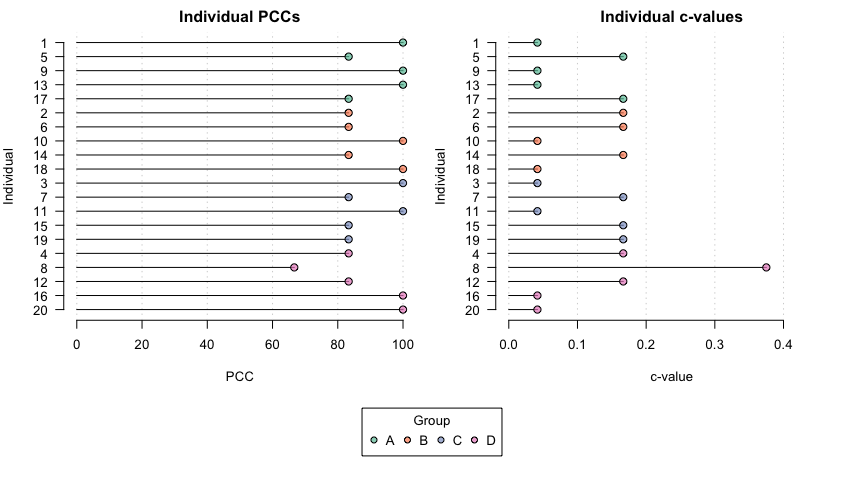
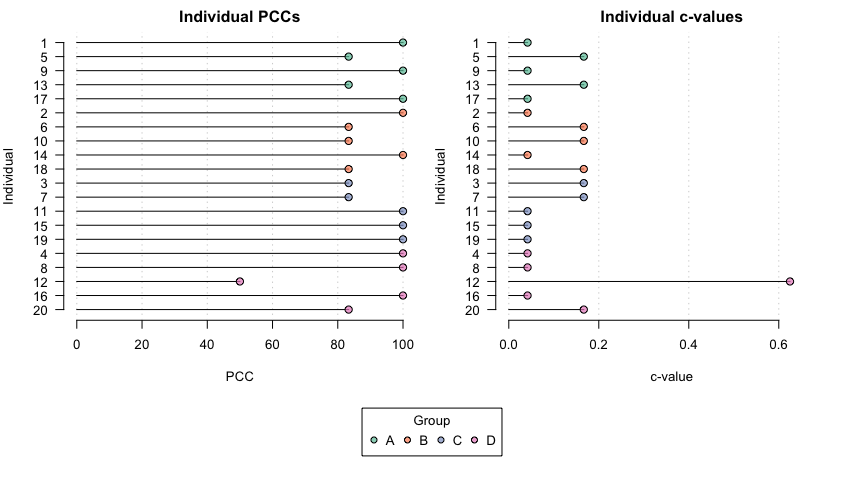
Updated readme

diff --git a/README.md b/README.md
@@ -1,11 +1,6 @@
 
 <!-- README.md is generated from README.Rmd. Please edit that file -->
 
-``` r
-palette("Set 2")
-palette(adjustcolor(palette(), alpha.f = 0.7))
-```
-
 # opa
 
 <!-- badges: start -->
@@ -99,6 +94,10 @@ h <- c(1, 2, 4, 3)
 The hypothesis can be visualized with the `plot_hypothesis()` function:
 
 ``` r
+# set plot colors
+palette("Set 2")
+palette(adjustcolor(palette(), alpha.f = 0.7))
+
 plot_hypothesis(h)
 ```
 
@@ -115,26 +114,26 @@ dat <- data.frame(t1 = rnorm(20, mean = 12, sd = 2),
                   
 round(dat, 2)
 #>       t1    t2    t3    t4
-#> 1  13.29 16.12 18.78 16.85
-#> 2  13.38 15.88 19.87 15.40
-#> 3  15.84 16.34 21.12 18.36
-#> 4  12.72 13.58 17.09 18.46
-#> 5  13.76 16.55 17.45 15.54
-#> 6  10.67  9.30 22.78 13.61
-#> 7  12.55  9.70 18.14 15.25
-#> 8  14.15 13.66 17.68 19.41
-#> 9  11.40 14.67 25.38 15.23
-#> 10 11.73 15.33 19.01 17.71
-#> 11 12.81 13.42 21.95 18.32
-#> 12  9.95 15.25 17.19 21.52
-#> 13 12.92 12.96 20.97 17.56
-#> 14  8.35 15.86 20.53 15.03
-#> 15 12.04 17.98 21.50 16.18
-#> 16 13.05 14.01 19.71 14.14
-#> 17  9.98 16.86 22.30 16.78
-#> 18  8.12 16.81 24.03 18.07
-#> 19 11.89 14.96 21.71 14.58
-#> 20 12.53 17.08 20.96 19.66
+#> 1  10.29 13.20 22.67 18.39
+#> 2   9.34 15.45 18.24 16.66
+#> 3   9.42 14.39 19.15 13.99
+#> 4   8.09 16.59 20.76 17.77
+#> 5  12.41 16.11 17.54 15.14
+#> 6  12.34 17.06 19.71 16.77
+#> 7   8.88 13.13 15.28 17.35
+#> 8  11.81 13.11 20.57 18.10
+#> 9  13.49 14.18 21.14 17.94
+#> 10 12.84 15.74 23.38 15.34
+#> 11 10.53 12.27 21.71 17.19
+#> 12 13.63 16.73 16.26 16.44
+#> 13 15.02 17.08 17.79 16.67
+#> 14 14.09 15.93 19.41 18.19
+#> 15 12.27 17.07 20.46 18.83
+#> 16 13.20 15.73 22.71 17.63
+#> 17 12.97 13.47 18.77 18.20
+#> 18 14.77 14.26 25.36 16.35
+#> 19  9.32 13.44 17.77 15.30
+#> 20 11.34 16.35 20.71 15.93
 ```
 
 An ordinal pattern analysis model to consider how the hypothesis `h`
@@ -151,31 +150,31 @@ summary(opamod)
 #> Ordinal Pattern Analysis of 4 observations for 20 individuals in 1 group 
 #> 
 #> Between subjects results:
-#>        PCC cval
-#> pooled  90 0.12
+#>          PCC cval
+#> pooled 90.83 0.12
 #> 
 #> Within subjects results:
 #>       PCC cval
 #> 1  100.00 0.04
-#> 2   83.33 0.17
-#> 3  100.00 0.04
-#> 4   83.33 0.17
+#> 2  100.00 0.04
+#> 3   83.33 0.17
+#> 4  100.00 0.04
 #> 5   83.33 0.17
 #> 6   83.33 0.17
 #> 7   83.33 0.17
-#> 8   66.67 0.38
+#> 8  100.00 0.04
 #> 9  100.00 0.04
-#> 10 100.00 0.04
+#> 10  83.33 0.17
 #> 11 100.00 0.04
-#> 12  83.33 0.17
-#> 13 100.00 0.04
-#> 14  83.33 0.17
-#> 15  83.33 0.17
+#> 12  50.00 0.62
+#> 13  83.33 0.17
+#> 14 100.00 0.04
+#> 15 100.00 0.04
 #> 16 100.00 0.04
-#> 17  83.33 0.17
-#> 18 100.00 0.04
-#> 19  83.33 0.17
-#> 20 100.00 0.04
+#> 17 100.00 0.04
+#> 18  83.33 0.17
+#> 19 100.00 0.04
+#> 20  83.33 0.17
 #> 
 #> PCCs were calculated for pairwise ordinal relationships using a difference threshold of 0.
 #> Chance-values were calculated using the exact method.
@@ -199,17 +198,17 @@ produced by a call to `opa()`:
 condition_comparisons <- compare_conditions(opamod)
 
 condition_comparisons$pccs
-#>     1   2  3 4
-#> 1   -   -  - -
-#> 2  85   -  - -
-#> 3 100 100  - -
-#> 4 100  70 85 -
+#>     1  2  3 4
+#> 1   -  -  - -
+#> 2  95  -  - -
+#> 3 100 95  - -
+#> 4 100 65 90 -
 condition_comparisons$cvals
-#>       1    2     3 4
-#> 1     -    -     - -
-#> 2 0.575    -     - -
-#> 3   0.5  0.5     - -
-#> 4   0.5 0.65 0.575 -
+#>       1     2    3 4
+#> 1     -     -    - -
+#> 2 0.525     -    - -
+#> 3   0.5 0.525    - -
+#> 4   0.5 0.675 0.55 -
 ```
 
 ### Multiple groups
@@ -235,31 +234,31 @@ summary(opamod2)
 #>     PCC cval
 #> A 93.33 0.09
 #> B 90.00 0.12
-#> C 90.00 0.12
-#> D 86.67 0.16
+#> C 93.33 0.09
+#> D 86.67 0.18
 #> 
 #> Within subjects results:
 #>   Individual    PCC cval
 #> A          1 100.00 0.04
 #> A          5  83.33 0.17
 #> A          9 100.00 0.04
-#> A         13 100.00 0.04
-#> A         17  83.33 0.17
-#> B          2  83.33 0.17
+#> A         13  83.33 0.17
+#> A         17 100.00 0.04
+#> B          2 100.00 0.04
 #> B          6  83.33 0.17
-#> B         10 100.00 0.04
-#> B         14  83.33 0.17
-#> B         18 100.00 0.04
-#> C          3 100.00 0.04
+#> B         10  83.33 0.17
+#> B         14 100.00 0.04
+#> B         18  83.33 0.17
+#> C          3  83.33 0.17
 #> C          7  83.33 0.17
 #> C         11 100.00 0.04
-#> C         15  83.33 0.17
-#> C         19  83.33 0.17
-#> D          4  83.33 0.17
-#> D          8  66.67 0.38
-#> D         12  83.33 0.17
+#> C         15 100.00 0.04
+#> C         19 100.00 0.04
+#> D          4 100.00 0.04
+#> D          8 100.00 0.04
+#> D         12  50.00 0.62
 #> D         16 100.00 0.04
-#> D         20 100.00 0.04
+#> D         20  83.33 0.17
 #> 
 #> PCCs were calculated for pairwise ordinal relationships using a difference threshold of 0.
 #> Chance-values were calculated using the exact method.
